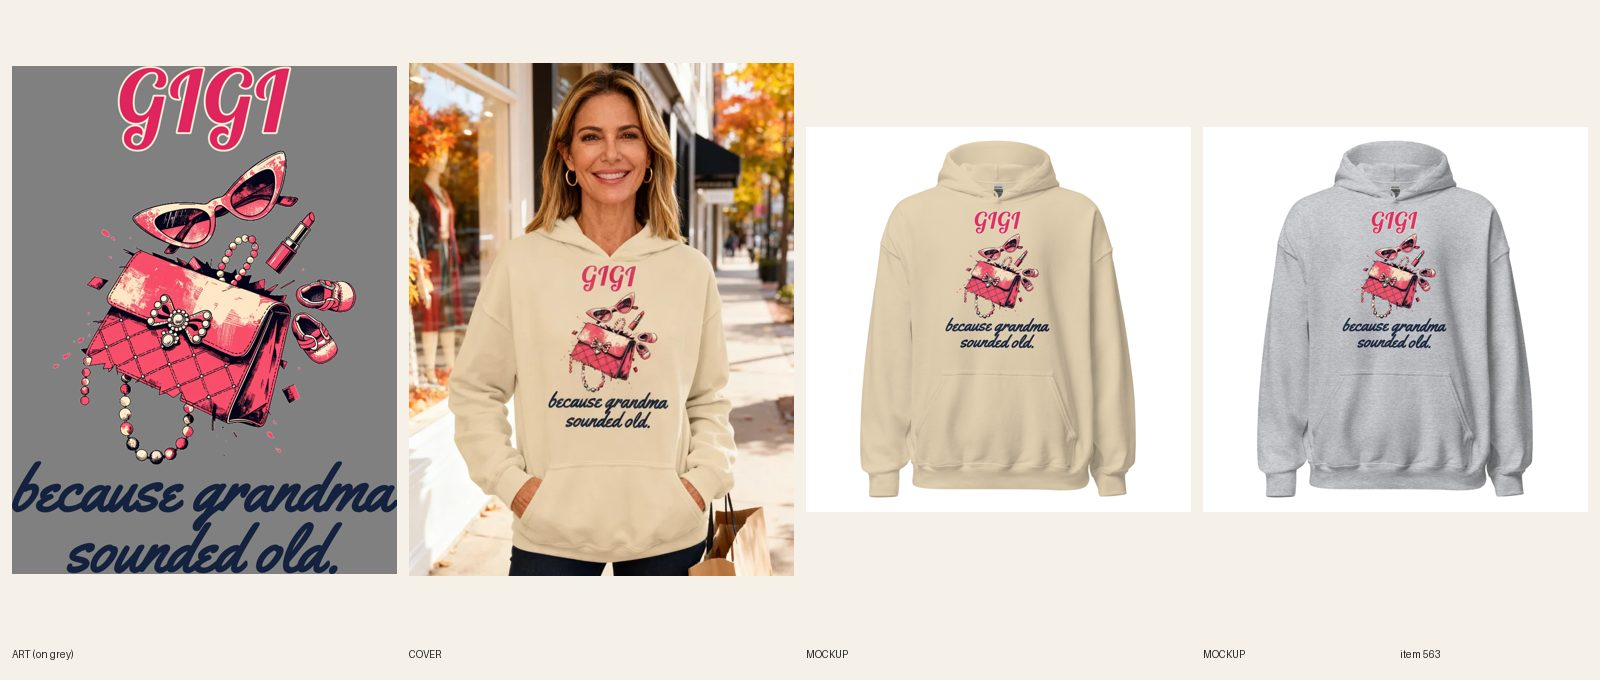
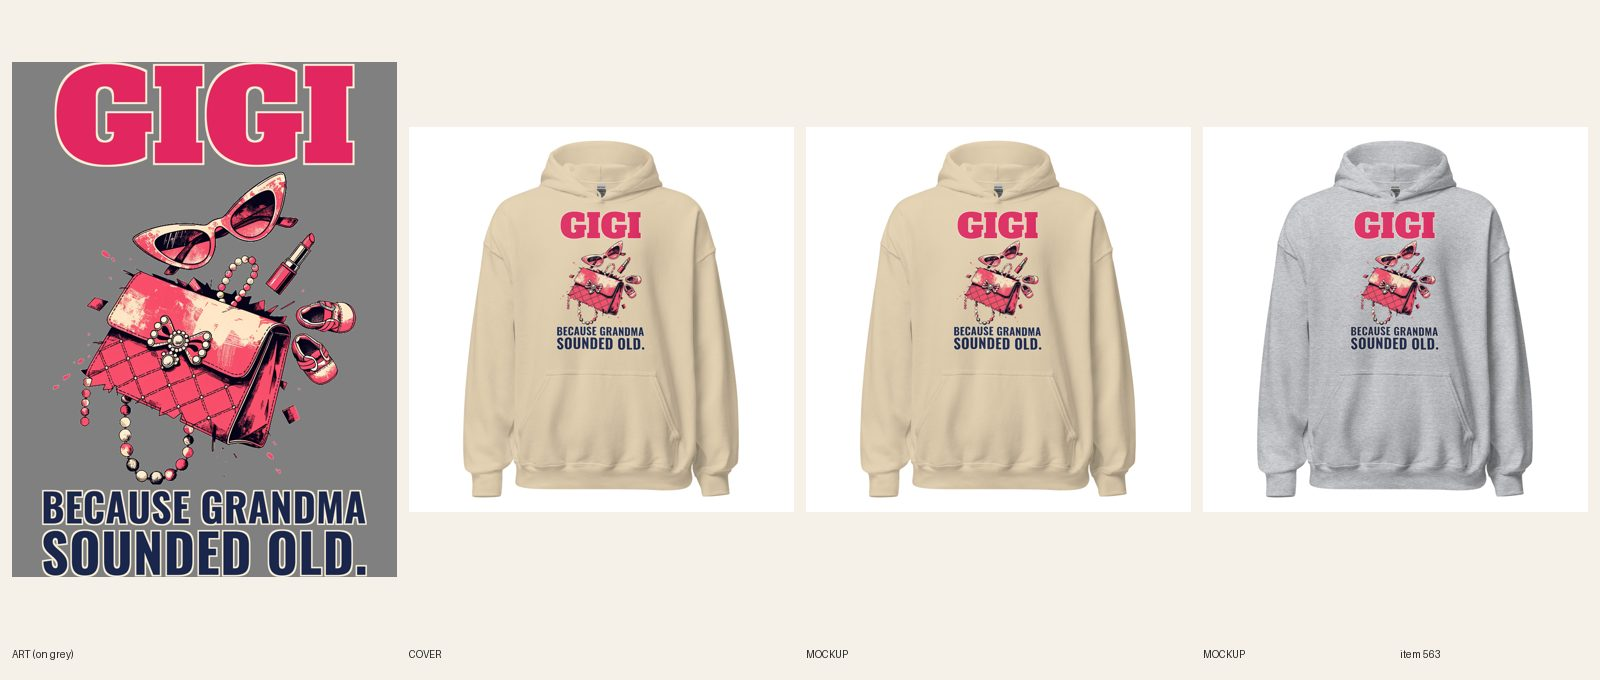
[C] review 563 (redo)
Claude-Session: https://claude.ai/code/session_01CCHcDj8LcJJ8qUPtKE3cvn

Changed region(s): [[0.0, 0.0926, 0.5, 0.8647], [0.8438, 0.3088, 0.9062, 0.525], [0.5938, 0.3088, 0.6562, 0.525]]

diff --git a/designs/c563/make.py b/designs/c563/make.py
@@ -1,0 +1,40 @@
+from PIL import Image, ImageDraw, ImageFont, ImageFilter
+FD='designs/fonts/'
+RED=(196,52,44,255); NAVY=(26,38,76,255); PINK=(226,38,96,255); CREAM=(246,236,214,255); BROWN=(58,36,24,255)
+def line(text,font,wfrac,W,fill,key,kw=31,track=0,var=None):
+    def mk(sz):
+        f=ImageFont.truetype(FD+font,sz)
+        if var: f.set_variation_by_axes(var)
+        return f
+    f=mk(800); adv=[f.getlength(c) for c in text]
+    tot=sum(adv)+track*(len(text)-1); size=int(800*W*wfrac/tot)
+    f=mk(size); adv=[f.getlength(c) for c in text]; tr=int(track*size/800)
+    asc,desc=f.getmetrics(); tot=int(sum(adv)+tr*(len(text)-1))
+    pad=80; im=Image.new('RGBA',(tot+2*pad,asc+desc+2*pad),(0,0,0,0))
+    def draw(layer,col):
+        d=ImageDraw.Draw(layer); x=pad
+        for c,a in zip(text,adv): d.text((x,pad),c,font=f,fill=col); x+=a+tr
+    k=Image.new('L',im.size,0); d=ImageDraw.Draw(k); x=pad
+    for c,a in zip(text,adv): d.text((x,pad),c,font=f,fill=255); x+=a+tr
+    k=k.filter(ImageFilter.MaxFilter(kw)); im.paste(Image.new('RGBA',im.size,key),(0,0),k)
+    draw(im,fill)
+    return im.crop(im.getbbox())
+src=Image.open('docs/print-files/563-gigi-hoodie.png').convert('RGBA'); W=src.width
+import numpy as np
+aa=np.array(src.crop((0,666,W,3118)))
+aa[:14,:2000,3]=0; aa[:14,2300:,3]=0
+aa[2425:,:900,3]=0; aa[2425:,1420:,3]=0
+art=Image.fromarray(aa); art=art.crop(art.getbbox())
+h1=line("GIGI",'AlfaSlabOne-Regular.ttf',0.78,W,PINK,CREAM,kw=33)
+h2a=line("BECAUSE GRANDMA",'Oswald[wght].ttf',0.85,W,NAVY,CREAM,kw=25,track=10,var=[700])
+h2b=line("SOUNDED OLD.",'Oswald[wght].ttf',0.85,W,NAVY,CREAM,kw=25,track=10,var=[700])
+h2=Image.new('RGBA',(W,h2a.height+30+h2b.height),(0,0,0,0)); h2.alpha_composite(h2a,((W-h2a.width)//2,0)); h2.alpha_composite(h2b,((W-h2b.width)//2,h2a.height+30)); print('h2a',h2a.size,'h2b',h2b.size)
+print('h1',h1.size,'h2',h2.size,'ratio h2/h1',h2.height/h1.height)
+g=40; H=h1.height+g+art.height+g+h2.height
+out=Image.new('RGBA',(W,H),(0,0,0,0))
+out.alpha_composite(h1,((W-h1.width)//2,0)); y=h1.height+g
+out.alpha_composite(art,((W-art.width)//2,y)); y+=art.height+g
+out.alpha_composite(h2,((W-h2.width)//2,y))
+out.save('docs/print-files/563-v2-gigi.png'); print(out.size,H/W,'art',art.size)
+for n,c in (('sand',(214,196,160,255)),('grey',(160,160,165,255))):
+    bg=Image.new('RGBA',out.size,c); bg.alpha_composite(out); bg.convert('RGB').resize((600,int(600*H/W))).save(f'designs/c563/prev_{n}.png')

diff --git a/docs/pipeline/563-gigi-hoodie-because-grandma-sounded-old.md b/docs/pipeline/563-gigi-hoodie-because-grandma-sounded-old.md
@@ -1,4 +1,4 @@
-status: REDO
+status: REVIEW
 shopify: gid://shopify/Product/15364784619824
 lane: C
 type: twin
@@ -27,3 +27,4 @@ kd: 17
 - 2026-10-18 06:19 UTC builder [C]: Printful relink verified 12/12 on file 1088725123; REVIEW.
 - 2026-10-18 06:27 UTC director: LIVE. Sheet reviewed (R3/R4/R5/R6/R8/R13.3 pass), ACTIVE + published to Online Store, My Store Headless, Google & YouTube; cohesion-audit --handle PASS 0 warn.
 - 2026-10-18 17:22 UTC director: QUALITY RESET grade B (type only), REDO. The product stays ACTIVE (same handle, URL, title keyword). Keep the line "GIGI / because grandma sounded old." and the art. 1. Type: Headline GIGI thin pink script ~45% width; second line navy script, not from art. 2. Quality reset type bar (docs/backlog/quality-reset.md, 'The new bar'): headline at least 90% of the art width, heavy, colors pulled from the art; second line at least 45% of the headline's height, never a thin script on a dark or mid garment; use the lettering as a shape (arch, stacked lockup, words breaking into the art), not a plain bar above and a script line below; no font used on more than 1 in 6 of the last 30 designs. 3. New print file means a new cover per R6.10 and a fresh review sheet (R7.7). While quality-reset.md says PAUSED, only lane A builds, and only the samples step 2 names.
+- 2026-10-20 09:55 UTC builder [C]: REDO type only (grade B). Art and line kept (GIGI / because grandma sounded old.). Old thin pink script GIGI and navy script replaced: GIGI in Alfa Slab One 78% of the print width, hot pink with cream keyline; BECAUSE GRANDMA / SOUNDED OLD. in Oswald Bold stacked, navy with cream keyline (the two lines are 34% and 45% of GIGI's height each, 83% together). Old lettering fragments (G curl bottoms, script ascender tops) cleared from the art crop. Sand + Sport Grey both light, no cream fills, one file 1090174683 (3021 x 4041 = 2,006 px at FW 1500; same ratio class as the previous print, all lines above the pouch on both mockups), FW 1500 TOP 0, 12/12 relinked. 2 fronts replaced in place, read at phone size. Copy says slab capitals. Plain product shot. fal $0.

diff --git a/docs/intake-log.md b/docs/intake-log.md
@@ -23,6 +23,7 @@ RUNNING lane B since 2026-10-20 03:28 UTC
 2026-10-20 03:41 UTC — [B] Builder run: redid #362 Women's Baseball hoodie (line + type: MISSED THE PLAY. / SEEDS WERE GOOD., same art, Bowlby One, Navy + Sand light files, 12/12 synced). REVIEW. fal $0.
 2026-10-20 05:26 UTC — [E] Builder run: redid #388 Women's Christmas crewneck (line + type: SORRY, I'M BOOKED TILL JANUARY., new party-calendar art, Navy + Sand files, 12/12 synced, copy updated, plain product shot). REVIEW. fal $0.08.
 RUNNING lane C since 2026-10-20 03:23 UTC
+2026-10-20 09:57 UTC — [C] Builder run: redid #563 Women's Gigi hoodie (type only: GIGI Alfa Slab + BECAUSE GRANDMA SOUNDED OLD. Oswald Bold, same handbag art, file 1090174683, FW 1500 TOP 0, 12/12 relinked, 2 fronts replaced in place, copy updated, plain product shot). REVIEW. fal $0.
 2026-10-20 09:22 UTC — [C] Builder run: redid #448 Men's Wizard grill zip hoodie (new line + type: ABRA-KEBAB-RA! / GRILL WIZARD, Alfa Slab + Fraunces, same wizard art, Ash file 1090170117 + Navy file 1090170188, BW 1560 BT 225, 12/12 relinked, back mockups updated, copy + SEO updated, plain product shot). REVIEW. fal $0.
 2026-10-20 08:47 UTC — [C] Builder run: redid #637 Men's Welder hoodie (new line + type: WELD. GRIND. PAINT. / NOBODY WILL KNOW., Big Shoulders + Alfa Slab, same worker art, Sand file 1090166098 + Navy file 1090166150, FW 1500 TOP 0, 12/12 relinked, 2 fronts replaced in place, copy + SEO updated, plain product shot). REVIEW (DRAFT). fal $0.
 2026-10-20 08:12 UTC — [C] Builder run: redid #622 Men's Golf army golf zip hoodie (type only: I PLAY ARMY GOLF. in Anton heavy green, headline kept, back file 1090161443, 12/12 relinked, 2 back mockups replaced in place, copy updated, plain product shot). REVIEW. fal $0.
